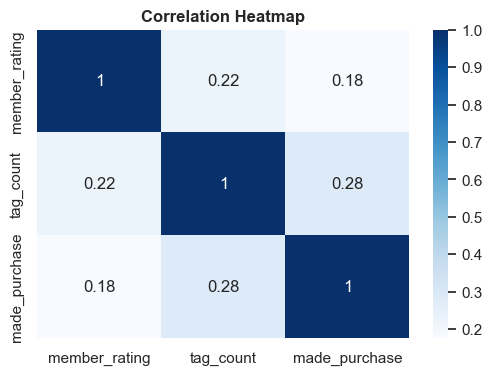
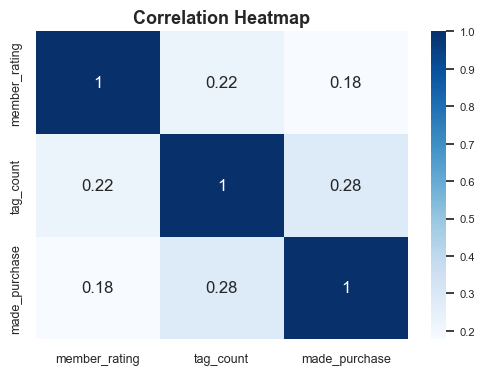
add made purchase prop by binary tag plot

diff --git a/analysis/eda.py b/analysis/eda.py
@@ -12,6 +12,7 @@ import matplotlib.pyplot as plt
 import seaborn as sns
 from mizani.formatters import *
 import email_lead_scoring as els
+import random
 
 # ***************************************************************************************************
 # LOAD DATA 
@@ -28,22 +29,23 @@ df_made_purchase_prop = data \
     .groupby("made_purchase") \
     .agg(count=("made_purchase", "size")) \
     .reset_index() \
-    .assign(made_purchase_prop=lambda x: x["count"] / x["count"].sum()) \
-    .assign(made_purchase=lambda x: x["made_purchase"].replace({0: "No", 1: "Yes"})) \
-    .assign(data_label=lambda x: x["made_purchase_prop"].apply(lambda x: f'{x:.0%}'))
+    .assign(prop = lambda x: x["count"] / x["count"].sum()) \
+    .assign(made_purchase = lambda x: x["made_purchase"].replace({0: "No", 1: "Yes"})) \
+    #.assign(data_label=lambda x: x["made_purchase_prop"].apply(lambda x: f'{x:.0%}'))
 
 # -- Plot
 sns.set_theme(style="darkgrid", palette=None)
-ax = sns.barplot(data=df_made_purchase_prop, x="made_purchase", y="count", color="#1f77b4", alpha=0.8, width=0.6)
+ax = sns.barplot(data=df_made_purchase_prop, x="made_purchase", y="count", alpha=0.8, width=0.6)
 
-# Add Data Labels
-ax.bar_label(ax.containers[0], labels=df_made_purchase_prop["data_label"], fontweight="bold")
+# Add data labels
+data_labels = ['{:.0%}'.format(x) for x in df_made_purchase_prop["prop"]]
+ax.bar_label(ax.containers[0], labels = data_labels, fontsize = 10)
 
-# Set labels and title
 # Set labels and title
 ax.set_ylabel("Frequency", fontsize=9)
-ax.set_xlabel("", fontsize=9)
-ax.set_title("Proportion of Users with Previous Purchase", fontsize=12, fontweight="bold");
+ax.tick_params(axis='y', labelsize=9)
+ax.set_xlabel(None)
+ax.set_title("Proportion of Users with Previous Purchase", fontsize=13, fontweight="bold");
 
 # ***************************************************************************************************
 # FUNCTION: DUAL AXIS BAR/LINE PLOT 
@@ -55,13 +57,13 @@ def bar_plot_dual_axis(data, x, y, y2, bar_width=0.6, bar_fill="#1f77b4", alpha=
     fig, ax1 = plt.subplots()
     
     # Barplot
-    sns.barplot(data=df, x=x, y=y, width=bar_width, color=bar_fill, alpha=alpha, ax=ax1)
+    sns.barplot(data=data, x=x, y=y, width=bar_width, color=bar_fill, alpha=alpha, ax=ax1)
     
     # Create a second y-axis for made_purchase_proportion
     ax2 = ax1.twinx()
     
     # Plot made_purchase_proportion as a line chart
-    sns.lineplot(x=x, y=y2, data=df, linewidth=2, markers='o', color="#ffb482", ax=ax2)
+    sns.lineplot(x=x, y=y2, data=data, linewidth=2, markers='o', color="#ffb482", ax=ax2)
     
     # Remove gridliens from second axis
     ax2.grid(b=False)
@@ -70,15 +72,15 @@ def bar_plot_dual_axis(data, x, y, y2, bar_width=0.6, bar_fill="#1f77b4", alpha=
     ax1.set_ylabel(ylab, fontsize=9)
     ax2.set_ylabel(y2lab, fontsize=9)
     ax1.set_xlabel(xlab, fontsize=9)
-    ax1.set_title(title, fontsize=12, fontweight="bold")
+    ax1.set_title(title, fontsize=13, fontweight="bold")
     
     # Reduce the fontsize of the axis values
-    ax1.tick_params(axis='both', labelsize=8)
-    ax2.tick_params(axis='both', labelsize=8)
+    ax1.tick_params(axis='both', labelsize=9)
+    ax2.tick_params(axis='both', labelsize=9)
     
     # Add data labels to the line plot
-    for x, y in zip(df[x], df[y2]):
-        ax2.text(x, y, f'{y:.2%}', ha='center', va='bottom', fontsize = 9, fontweight="bold")
+    for x, y in zip(data[x], data[y2]):
+        ax2.text(x, y, f'{y:.2%}', ha='center', va='bottom', fontsize = 10, fontweight="bold")
 
 
 # ***************************************************************************************************
@@ -123,7 +125,7 @@ df_country = data \
 # -- Plot
 bar_plot_dual_axis(
     data  = df_country, 
-    x     = "count", 
+    x     = "country_code", 
     y     = "count", 
     y2    = "made_purchase_prop",
     ylab  = "Frequency", 
@@ -172,8 +174,10 @@ df_corr = data \
 plt.figure(figsize=(6, 4))
 sns.set_theme(style="darkgrid", palette=None)
 ax = sns.heatmap(data=df_corr, annot=True, cmap="Blues")
-ax.set_title("Correlation Heatmap", fontsize=12, fontweight="bold");
-
+ax.set_title("Correlation Heatmap", fontsize=13, fontweight="bold")
+ax.tick_params(axis='both', labelsize=9)
+cbar = ax.collections[0].colorbar
+cbar.ax.tick_params(labelsize=8)
 
 # ***************************************************************************************************
 # KPIs
@@ -227,6 +231,73 @@ els.cost_plot_simulated_unsub_cost_plotnine(
     y_lab              = "Email List Growth Rate (%)"  
 )
 
+# ***************************************************************************************************
+# Made Purchase Prop by Tag (Post Data Preprocessing)
+
+# - Data With Tag Flags
+df_binary_tags = els.db_read_and_process_els_data()
+
+# - Sample Tag Columns to Plot 
+columns = [
+    'made_purchase',
+    'tag_learning_lab_09', 
+    'tag_learning_lab_24',
+    'tag_learning_lab_12',
+    'tag_learning_lab_33',
+    'tag_webinar_no_degree',
+    'tag_learning_lab_13',
+    'tag_learning_lab_05',
+    'tag_learning_lab_31',
+    'tag_learning_lab_41'
+]
+
+# - Data
+df = df_binary_tags[columns]
+
+# - Plot
+
+# -- Grid setup
+sns.set_style("darkgrid")
+fig, axs = plt.subplots(3, 3, figsize=(16, 11))
+plt.subplots_adjust(wspace=0.2, hspace=0.3)
+
+# -- Data Aggregation
+for feat, ax in zip(columns[1:], axs.ravel()):  
+    
+    df_feat = df[["made_purchase", feat]] \
+                .groupby([feat, "made_purchase"]) \
+                .agg(count=(feat, "size")) \
+                .reset_index() \
+                .groupby(feat) \
+                .apply(lambda x: x.assign(proportion=x["count"] / x["count"].sum())) \
+                .reset_index(drop = True) \
+                .query("made_purchase == 1") 
+                
+    df_feat[feat] = df_feat[feat].replace({0: "No", 1: "Yes"})   
+   
+    
+    # -- Plot
+    sns.barplot(data = df_feat, x = feat, y = "proportion", alpha = 0.8, width = 0.6, ax = ax)
+    
+    # -- Data labels
+    ax.bar_label(ax.containers[0], labels=['{:.0%}'.format(x) for x in df_feat["proportion"]])
+    
+    # -- Increase y axis limit
+    current_ylim = ax.get_ylim()
+    new_ylim = (current_ylim[0], current_ylim[1] + 0.01)
+    ax.set_ylim(new_ylim)
+    
+    # Axis labs
+    ax.set_title(f'{feat}')
+    ax.set_ylabel(None)
+    ax.set_xlabel(None)
+    
+     # Overall plot title
+    fig.suptitle("Proportion of Subscribers With A Purchase by Tag", fontsize = 13, fontweight = "bold")
+    plt.show()
+    
+        
+    
 # ***************************************************************************************************
 # ! ARCHIVE
 

diff --git a/email_lead_scoring/cost_calculations.py b/email_lead_scoring/cost_calculations.py
@@ -227,7 +227,7 @@ def cost_plot_simulated_unsub_cost_plotnine(
             )
         )
         + geom_tile()
-        + geom_text(aes(label="label_text"), size=8)
+        + geom_text(aes(label="label_text"), size=9)
         + theme_matplotlib()
         + labs(
             title=title,
@@ -237,14 +237,15 @@ def cost_plot_simulated_unsub_cost_plotnine(
             fill=legend_title
         )
         + theme(
-            axis_text=element_text(size=8),
-            axis_title=element_text(size=8),
+            plot_title = element_text(size = 13, weight = "bold"),
+            axis_text=element_text(size=9),
+            axis_title=element_text(size=9),
             legend_title=element_text(size=9),
             legend_text=element_text(size=7),
             legend_key_size=10,
             legend_position="none"
         )
-        + scale_fill_gradient(low="lightblue", high="orange")
+        + scale_fill_gradient(low="#c9e3f6", high="#1c6ca3")
     )
 
     return p

diff --git a/03_data_pipelines/02_pipeline_function.py b/03_data_pipelines/02_pipeline_function.py
@@ -106,4 +106,4 @@ def db_read_and_process_els_data(conn_string="sqlite://" + "/00_database/crm_dat
 
 import email_lead_scoring as els
 
-els.db_read_and_process_els_data()
+els.db_read_and_process_els_data().info()

diff --git a/analysis/analysis_write_up.md b/analysis/analysis_write_up.md
@@ -25,6 +25,7 @@
     - [**4.1.4 Tag Count vs Made Purchase**](#414-tag-count-vs-made-purchase)
     - [**1.4.5 Correlation**](#145-correlation)
 - [**5.0 Formulating KPIs**](#50-formulating-kpis)
+- [6.0 **Feature Engineering**](#60-feature-engineering)
 
 <div style="page-break-after: always"></div>
 
@@ -194,3 +195,26 @@ One of such KPIs could be to increase the median *tag_count*. Looking at the tab
 </p>
 
 <br>
+
+<div style="page-break-after: always"></div>
+
+## 6.0 **Feature Engineering**
+
+Now that we have a better understand of our data and what features might be predictive of a subscriber
+making a purchase, the next phase in our workflow is creating preprocessing pipelines to get our data in the right form for machine learning algorithms. [Feature Engineering](https://towardsdatascience.com/what-is-feature-engineering-importance-tools-and-techniques-for-machine-learning-2080b0269f10) is the process of selecting, manipulation and transforming raw data into features that can be used in supervised learning.
+
+Understanding the business context and having domain expertise can greatly influence the choice and creation of features. Different businesses and domains may have unique characteristics, specifc factors that impac the target variable, and relevant attributes that need to be considered during feature engineering.
+
+For this analysis, the following addition features were created from existing data;
+
+1. Optin Days - Generated from *optin_time*. This is the number of days the subscriber has been on the companies email list.
+2. Email Provider - Generated from *user_email*. Multiple email providers (such as gmail, hotmail) etc are being used by subscribers, and could be helpful in predicting *made_purchase*.
+3. Activity Per Time - Generated by dividing *tag_count* (count of events a subscriber has attended) by the newly created *optin_days*.
+4. One-To-Many Features (Tags) - These are binary features (0s or 1s) for each tag (event) to indicate if a user attend the event or not.
+5. Reducing High Cardinality - Applied to *country_code*. Using a threshold of 6, this process lumps countries that have less than 6 subscribers in the dataset into an ***other** category in*country_code*.
+
+The plot below shows and example of some of the new features created and their relationship with our target *made_purchase*. The plot shows the likelihood of making a purchase based on 9 randomly selected tags (events). Looking at one example (Learning Lab 09) we can see that if a subsriber attened that event, they have a 19% likelihood of making a purchase vs only 5% if they did not attend the event.  We can also see similar trends for the other tags, indicating that having these additional features could be very indicative of *made_purchase*.
+
+<p align="center" width="100%">
+    <img width="100%" src="png/attended_event_vs_made_purchase_prop.png" alt="Image" style="display:block; margin:auto;" width="400">
+</p>
